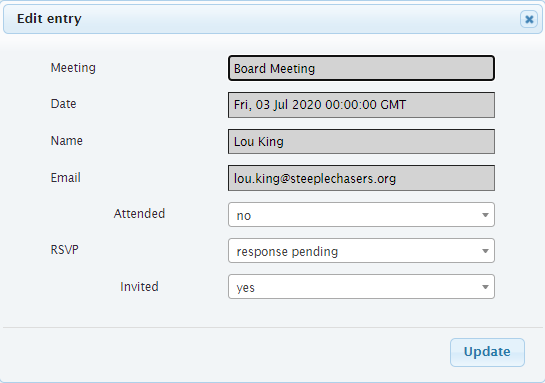
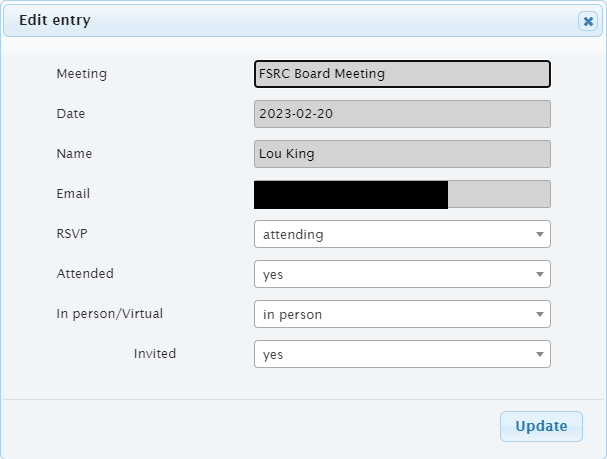
meetings module: rsvp indicates if invitee is attending virtually (#540)

diff --git a/members/static/admin/beforedatatables.js b/members/static/admin/beforedatatables.js
@@ -607,12 +607,16 @@ function mystatus_rsvp(url) {
         var get = $.get(url, function(data, textStatus, jqXHR) {
             if (textStatus === "success") {
                 if (data.status === "success") {
+                    var dtebody = $('<div>', {class: 'DTE_Body'});
+                    var dtebodycontent = $('<div>', {class: 'DTE_Body_Content'});
+                    dtebody.append(dtebodycontent);
                     var form = $('<form>', {id: 'doc-form', action: url, method:'POST'})
+                    dtebodycontent.append(form);
                     var responsediv = $('<div>', {class: 'DTE_Field field_req'});
                     form.append(responsediv);
                     responsediv.append($('<label>', {for: 'response', text: 'RSVP', class: 'DTE_Label'}));
                     var attending = $('<select>', {id:  'response', name: 'response', class: 'form-input DTE_Field_Input',
-                                                   style: 'width: 80%;'});
+                                                   style: 'width: 60%;'});
                     responsediv.append(attending);
                     for (var i=0; i<data.options.length; i++) {
                         attending.append($('<option>', {value: data.options[i], text: data.options[i]}));
@@ -622,11 +626,44 @@ function mystatus_rsvp(url) {
                         minimumResultsForSearch: Infinity
                     });
 
+                    var attend_typediv = $('<div>', {class: 'DTE_Field field_req'});
+                    form.append(attend_typediv);
+                    attend_typediv.append($('<label>', {for: 'attend_type', text: 'in person/virtual', class: 'DTE_Label'}));
+                    var attend_type = $('<select>', {id:  'attend_type', name: 'attend_type', class: 'form-input DTE_Field_Input',
+                                                   style: 'width: 60%;'});
+                    attend_typediv.append(attend_type);
+                    for (var i=0; i<data.attend_type_options.length; i++) {
+                        attend_type.append($('<option>', {value: data.attend_type_options[i], text: data.attend_type_options[i]}));
+                    }
+                    attend_type.val(data.attend_type);
+                    attend_type.select2({
+                        minimumResultsForSearch: Infinity
+                    });
+
+                    // set default attend_type to the top option if not already set
+                    if (attend_type.val() == null) {
+                        // see https://stackoverflow.com/a/42898862/799921
+                        attend_type.val(attend_type[0][0].value).trigger('change');
+                    }
+
+                    // show attend_type only when attending shows user is actually attending the meeting
+                    function check_attending() {
+                        if (attending.val() == 'attending') {
+                            attend_typediv.show();
+                        } else {
+                            attend_typediv.hide();
+                        }
+                    }
+                    $(attending).change(function(){
+                        check_attending();
+                    });
+                    check_attending();
+
                     // adapted from https://www.tjvantoll.com/2013/07/10/creating-a-jquery-ui-dialog-with-a-submit-button/
-                    form.dialog({
+                    dtebody.dialog({
                         title: 'RSVP',
                         modal: true,
-                        minWidth: 400,
+                        width: 600,
                         height: 'auto',
                         close: function(event, ui) {
                             that.processing(false);
@@ -650,7 +687,7 @@ function mystatus_rsvp(url) {
                                                 if (formfields.response != 'response pending') {
                                                     $('.rsvp-noresponse').removeClass('rsvp-noresponse');
                                                 }
-                                                form.dialog('close');
+                                                dtebody.dialog('close');
                                             } else {
                                                 formerror.text(data.error);
                                                 formerror.show();
@@ -665,7 +702,7 @@ function mystatus_rsvp(url) {
                             {
                                 text: 'Cancel',
                                 click: function() {
-                                    form.dialog('close');
+                                    dtebody.dialog('close');
                                 }
                             },
                         ]

diff --git a/members/views/admin/meetings_admin.py b/members/views/admin/meetings_admin.py
@@ -25,12 +25,13 @@ from ...model import LocalInterest, LocalUser, Tag, MeetingType
 from ...model import Meeting, Invite, AgendaItem, Motion, MotionVote, AgendaHeading, Position, StatusReport
 from ...model import Email
 from ...model import localinterest_query_params
-from ...model import invite_response_all
+from ...model import invite_response_all, invite_attend_type_all
 from ...model import MOTIONVOTE_STATUS_APPROVED, MOTIONVOTE_STATUS_NOVOTE, MEETING_RENEW_OPTIONS
 from ...helpers import positions_active, members_active
 from ...meeting_invites import generateinvites, get_invites, generatereminder, send_meeting_email, send_discuss_email
 from ...meeting_invites import MEETING_INVITE_EMAIL, MEETING_REMINDER_EMAIL, MEETING_EMAIL
 from ...model import MEETING_OPTIONS, MEETING_OPTION_SEPARATOR, MEETING_OPTION_RSVP, MEETING_OPTION_ONLINEMOTIONS
+from ...model import MEETING_OPTION_INPERSON, MEETING_OPTION_VIRTUAL
 from ...model import MEETING_OPTION_SHOWACTIONITEMS, MEETING_OPTION_TIME, MEETING_OPTION_LOCATION, MEETING_OPTION_HASMOTIONS
 from ...model import MEETING_RENEW_COPYAGENDADISCUSSION, MEETING_RENEW_COPYAGENDASUMMARY, MEETING_RENEW_RESETACTIONDATE
 from ...model import MEETING_RENEW_COPYINVITEEMAIL, MEETING_RENEW_COPYREMINDEREMAIL, INVITE_KEY_URLARG
@@ -409,8 +410,8 @@ meetings_view.register()
 # invites endpoint
 ###########################################################################################
 
-invites_dbattrs = 'id,interest_id,meeting.purpose,meeting.date,user.name,user.email,agendaitem.agendaitem,invitekey,response,attended,activeinvite'.split(',')
-invites_formfields = 'rowid,interest_id,purpose,date,name,email,agendaitem,invitekey,response,attended,activeinvite'.split(',')
+invites_dbattrs = 'id,interest_id,meeting.purpose,meeting.date,user.name,user.email,agendaitem.agendaitem,invitekey,response,attend_type,attended,activeinvite'.split(',')
+invites_formfields = 'rowid,interest_id,purpose,date,name,email,agendaitem,invitekey,response,attend_type,attended,activeinvite'.split(',')
 invites_dbmapping = dict(zip(invites_dbattrs, invites_formfields))
 invites_formmapping = dict(zip(invites_formfields, invites_dbattrs))
 # invites_formmapping['date'] = lambda dbrow: isodate.dt2asc(dbrow.meeting.date)
@@ -497,14 +498,17 @@ invites_view = InvitesView(
          'aliased': localuser_invites_alias,
          'onclause': localuser_invites_onclause,
          },
-        {'data': 'attended', 'name': 'attended', 'label': 'Attended',
-         'className': 'TextCenter',
-         '_treatment': {'boolean': {'formfield': 'attended', 'dbfield': 'attended'}},
-         'ed': {'def': 'no'},
-         },
         {'data': 'response', 'name': 'response', 'label': 'RSVP',
          'type': 'select2',
          'options': invite_response_all,
+         },
+        {'data': 'attended', 'name': 'attended', 'label': 'Attended',
+         '_treatment': {'boolean': {'formfield': 'attended', 'dbfield': 'attended'}},
+         'ed': {'def': 'no'},
+         },
+        {'data': 'attend_type', 'name': 'attend_type', 'label': 'In person/Virtual',
+         'type': 'select2',
+         'options': invite_attend_type_all,
          },
         {'data': 'activeinvite', 'name': 'activeinvite', 'label': 'Invited',
          'className': 'TextCenter',
@@ -995,7 +999,8 @@ def meeting_childrowoptions():
                 },
                 'inline': {
                     # uses name field as key; value is used for editor.inline() options
-                    'attended': {'submitOnBlur': True}
+                    'attended': {'submitOnBlur': True},
+                    'attend_type': {'submitOnBlur': True},
                 },
                 'updatedtopts': {
                     'dom': 'Bfrt',
@@ -2069,7 +2074,19 @@ class MeetingTypesView(DbCrudApiInterestsRolePermissions):
         if self.action != 'refresh':
             self.updatepeers(self.thisid, self.prevpeers)
             # table display is updated in afterdatatables.js on('submitSuccess') function
-
+        
+            # check for option incompatibilities
+            meetingtype = MeetingType.query.filter_by(id=self.thisid).one()
+            options = set(meetingtype.options.split(MEETING_OPTION_SEPARATOR))
+            rsvp_required_options = {MEETING_OPTION_INPERSON, MEETING_OPTION_VIRTUAL}
+            rsvp_required_text = {MEETING_OPTIONS[o] for o in rsvp_required_options}
+            if MEETING_OPTION_RSVP in options and not (rsvp_required_options & options):
+                self._fielderrors = [
+                    {'name': 'options', 
+                     'status': f'if \'{MEETING_OPTIONS[MEETING_OPTION_RSVP]}\' set, must set at least one of {rsvp_required_text}'
+                    }]
+                raise ParameterError
+                
 
 meetingtypes_dbattrs = 'id,interest_id,order,meetingtype,options,buttonoptions,renewoptions,meetingwording,' \
                        'statusreportwording,invitewording,autoagendatitle,invitetags,votetags,statusreporttags,' \

diff --git a/members/views/admin/meetings_member.py b/members/views/admin/meetings_member.py
@@ -20,6 +20,7 @@ from . import bp
 from ...model import db
 from ...model import LocalInterest, LocalUser, Invite, ActionItem, Motion, MotionVote
 from ...model import invite_response_all, INVITE_RESPONSE_ATTENDING, INVITE_RESPONSE_NO_RESPONSE, action_all
+from ...model import invite_opt2attend
 from ...model import motionvote_all, MOTIONVOTE_KEY_URLARG, INVITE_KEY_URLARG
 from ...version import __docversion__
 from ...meeting_evotes import get_evotes, generateevotes
@@ -531,7 +532,21 @@ class MyMeetingRsvpApi(MethodView):
             options = [r for r in invite_response_all
                        # copy if no response yet, or (if a response) anything but no response
                        if invite.response == INVITE_RESPONSE_NO_RESPONSE or r != INVITE_RESPONSE_NO_RESPONSE]
-            return jsonify(status='success', response=invite.response, options=options)
+            
+            # build attendance options
+            attend_type_options = []
+            for inp_v_opt in invite_opt2attend:
+                if meeting_has_option(invite.meeting, inp_v_opt):
+                    attend_type_options.append(invite_opt2attend[inp_v_opt])
+            
+            jsonfields = {
+                'status': 'success',
+                'response': invite.response,
+                'options': options,
+                'attend_type': invite.attend_type,
+                'attend_type_options': attend_type_options,
+            }
+            return jsonify(**jsonfields)
 
         except Exception as e:
             exc = ''.join(format_exception_only(type(e), e))
@@ -554,6 +569,9 @@ class MyMeetingRsvpApi(MethodView):
 
             invite = Invite.query.filter_by(invitekey=invitekey).one()
             invite.response = response
+            if response == INVITE_RESPONSE_ATTENDING:
+                attend_type = request.form['attend_type']
+                invite.attend_type = attend_type
             invite.attended = response == INVITE_RESPONSE_ATTENDING
             db.session.commit()
 

diff --git a/members/model.py b/members/model.py
@@ -419,8 +419,12 @@ MEETING_OPTION_HASDISCUSSIONS = 'has_discussions'
 MEETING_OPTION_HASMOTIONS = 'has_motions'
 MEETING_OPTION_SHOWACTIONITEMS = 'show_action_items'
 MEETING_OPTION_ONLINEMOTIONS = 'allow_online_motions'
+MEETING_OPTION_INPERSON = 'in_person'
+MEETING_OPTION_VIRTUAL = 'virtual'
 MEETING_OPTIONS = OrderedDict([
     (MEETING_OPTION_RSVP, 'RSVP Required'),
+    (MEETING_OPTION_INPERSON, 'In Person'),
+    (MEETING_OPTION_VIRTUAL, 'Virtual'),
     (MEETING_OPTION_TIME, 'Time Required'),
     (MEETING_OPTION_LOCATION, 'Location Required'),
     (MEETING_OPTION_SHOWACTIONITEMS, 'Show Action Items'),
@@ -481,6 +485,14 @@ INVITE_RESPONSE_ATTENDING = 'attending'
 INVITE_RESPONSE_NOT_ATTENDING = 'not attending'
 invite_response_all = [INVITE_RESPONSE_NO_RESPONSE, INVITE_RESPONSE_ATTENDING, INVITE_RESPONSE_NOT_ATTENDING]
 
+INVITE_ATTENDANCE_IN_PERSON = 'in person'
+INVITE_ATTENDANCE_VIRTUAL = 'virtual'
+invite_attend_type_all = [INVITE_ATTENDANCE_IN_PERSON, INVITE_ATTENDANCE_VIRTUAL]
+invite_opt2attend = OrderedDict([
+    (MEETING_OPTION_INPERSON, INVITE_ATTENDANCE_IN_PERSON),
+    (MEETING_OPTION_VIRTUAL, INVITE_ATTENDANCE_VIRTUAL),
+])
+
 class Invite(Base):
     __tablename__ = 'invite'
     id                  = Column(Integer(), primary_key=True)
@@ -495,6 +507,7 @@ class Invite(Base):
     agendaitem          = relationship('AgendaItem', backref=backref('invites'))
     invitekey           = Column(String(INVITE_KEY_LEN))
     response            = Column(Enum(*invite_response_all), default=INVITE_RESPONSE_NO_RESPONSE)
+    attend_type         = Column(Enum(*invite_attend_type_all))
     attended            = Column(Boolean, default=False)
     activeinvite        = Column(Boolean, default=True)
     lastreminder        = Column(DateTime)

diff --git a/migrations/versions/b4823b3a5e53_invite_add_attend_type.py b/migrations/versions/b4823b3a5e53_invite_add_attend_type.py
@@ -1,0 +1,52 @@
+"""invite: add attend_type
+
+Revision ID: b4823b3a5e53
+Revises: 7932dfcefab0
+Create Date: 2023-01-27 15:35:23.171420
+
+"""
+from alembic import op
+import sqlalchemy as sa
+
+
+# revision identifiers, used by Alembic.
+revision = 'b4823b3a5e53'
+down_revision = '7932dfcefab0'
+branch_labels = None
+depends_on = None
+
+
+def upgrade(engine_name):
+    globals()["upgrade_%s" % engine_name]()
+
+
+def downgrade(engine_name):
+    globals()["downgrade_%s" % engine_name]()
+
+
+
+
+
+def upgrade_():
+    # ### commands auto generated by Alembic - please adjust! ###
+    op.add_column('invite', sa.Column('attend_type', sa.Enum('in person', 'virtual'), nullable=True))
+    # ### end Alembic commands ###
+
+
+def downgrade_():
+    # ### commands auto generated by Alembic - please adjust! ###
+    op.drop_column('invite', 'attend_type')
+    # ### end Alembic commands ###
+
+
+def upgrade_users():
+    # ### commands auto generated by Alembic - please adjust! ###
+    pass
+    # ### end Alembic commands ###
+
+
+def downgrade_users():
+    # ### commands auto generated by Alembic - please adjust! ###
+    pass
+    # ### end Alembic commands ###
+

diff --git a/docs/meetings-admin-guide.rst b/docs/meetings-admin-guide.rst
@@ -332,8 +332,8 @@ From the :term:`meeting's <meeting>` :ref:`Meeting view`,
 
 * select the :term:`agenda item` entitled *Attendees*
 * click **Edit**
-* under the **Invites** table, on the :term:`member` row, click the cell under the **Attended** column to change
-* click off the selected cell to save -- when select widget disappers, the entry is saved
+* under the **Invites** table, on the :term:`member` row, click the cell under the **Attended** and/or **In person/Virtual** columns to change
+* click off the selected cell to save -- when select widget disappears, the entry is saved
 
   .. important::
     if you don't click off the selected cell, this change won't be saved
@@ -403,7 +403,7 @@ To edit the :term:`votes <vote>`,
 * select the :term:`motion`
 * under **Motions** click **Edit**
 * under **Votes**, on the :term:`member` row, click the cell under the **Vote** column to change
-* click off the selected cell to save -- when select widget disappers, the entry is saved
+* click off the selected cell to save -- when select widget disappears, the entry is saved
 
   .. important::
     if you don't click off the selected cell, this change won't be saved

diff --git a/docs/meetings-admin-reference.rst b/docs/meetings-admin-reference.rst
@@ -115,11 +115,15 @@ Invites view
     :Email:
         email address of the :term:`member` invited to the :term:`meeting`
 
+    :RSVP:
+        the :term:`member's <member>` :term:`rsvp` response when invited to the :term:`meeting`
+
     :Attended:
         indication of whether the :term:`member` attended the meeting, *yes* or *no*
 
-    :RSVP:
-        the :term:`member's <member>` :term:`rsvp` response when invited to the :term:`meeting`
+    :In person/Virtual:
+        if the :term:`meeting` includes the option *RSVP Required*, this shows whether
+        the :term:`member` plans to or has attended *in person* or *virtual*
 
     :Invited:
         generally *yes* but if the :term:`member's <member>` :term:`position` changed after the initial

diff --git a/docs/meetings-member-guide.rst b/docs/meetings-member-guide.rst
@@ -107,6 +107,11 @@ This opens a form for your :term:`RSVP <rsvp>`:
     :align: center
 
 * next to **RSVP** select your response, one of *attending*, *not attending*
+* if you chose *attending*, you need to pick whether you will be attending *in person* or *virtual*
+  
+  .. note::
+    if the meeting only allows *in person* or only allows *virtual*, only that option will be shown
+
 * click **Save**
 
 .. _My Status Report update report:
